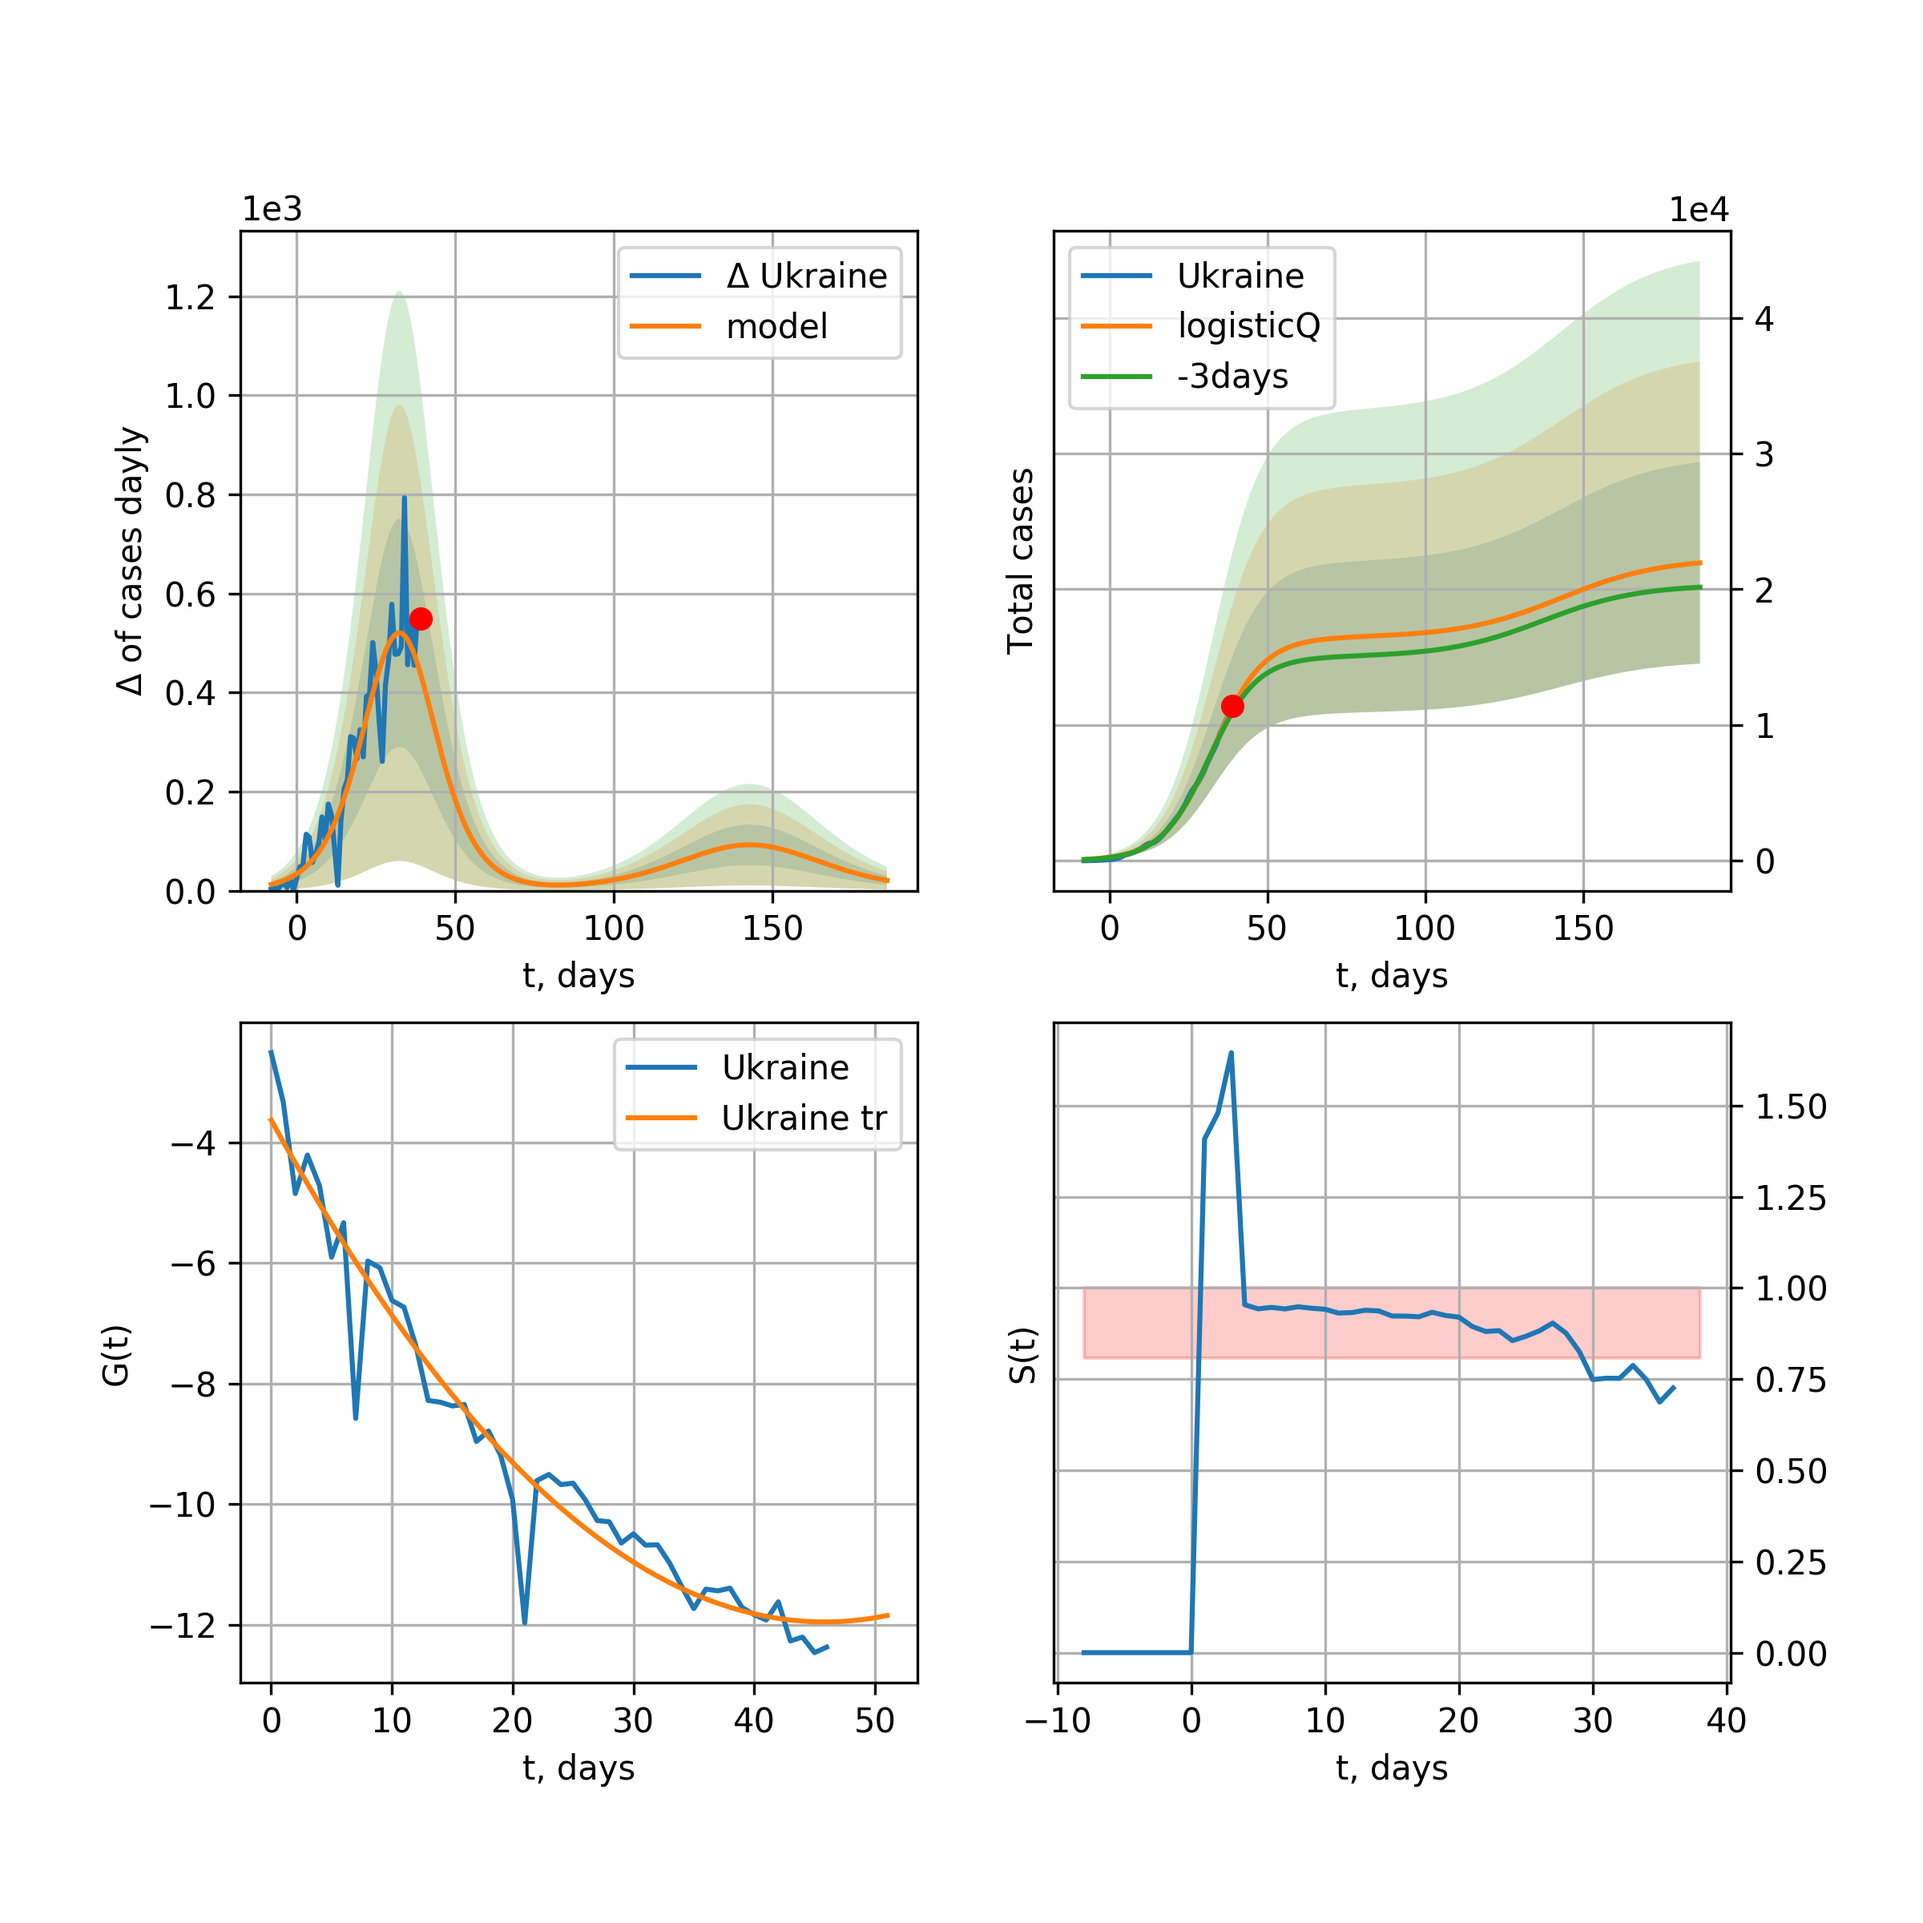
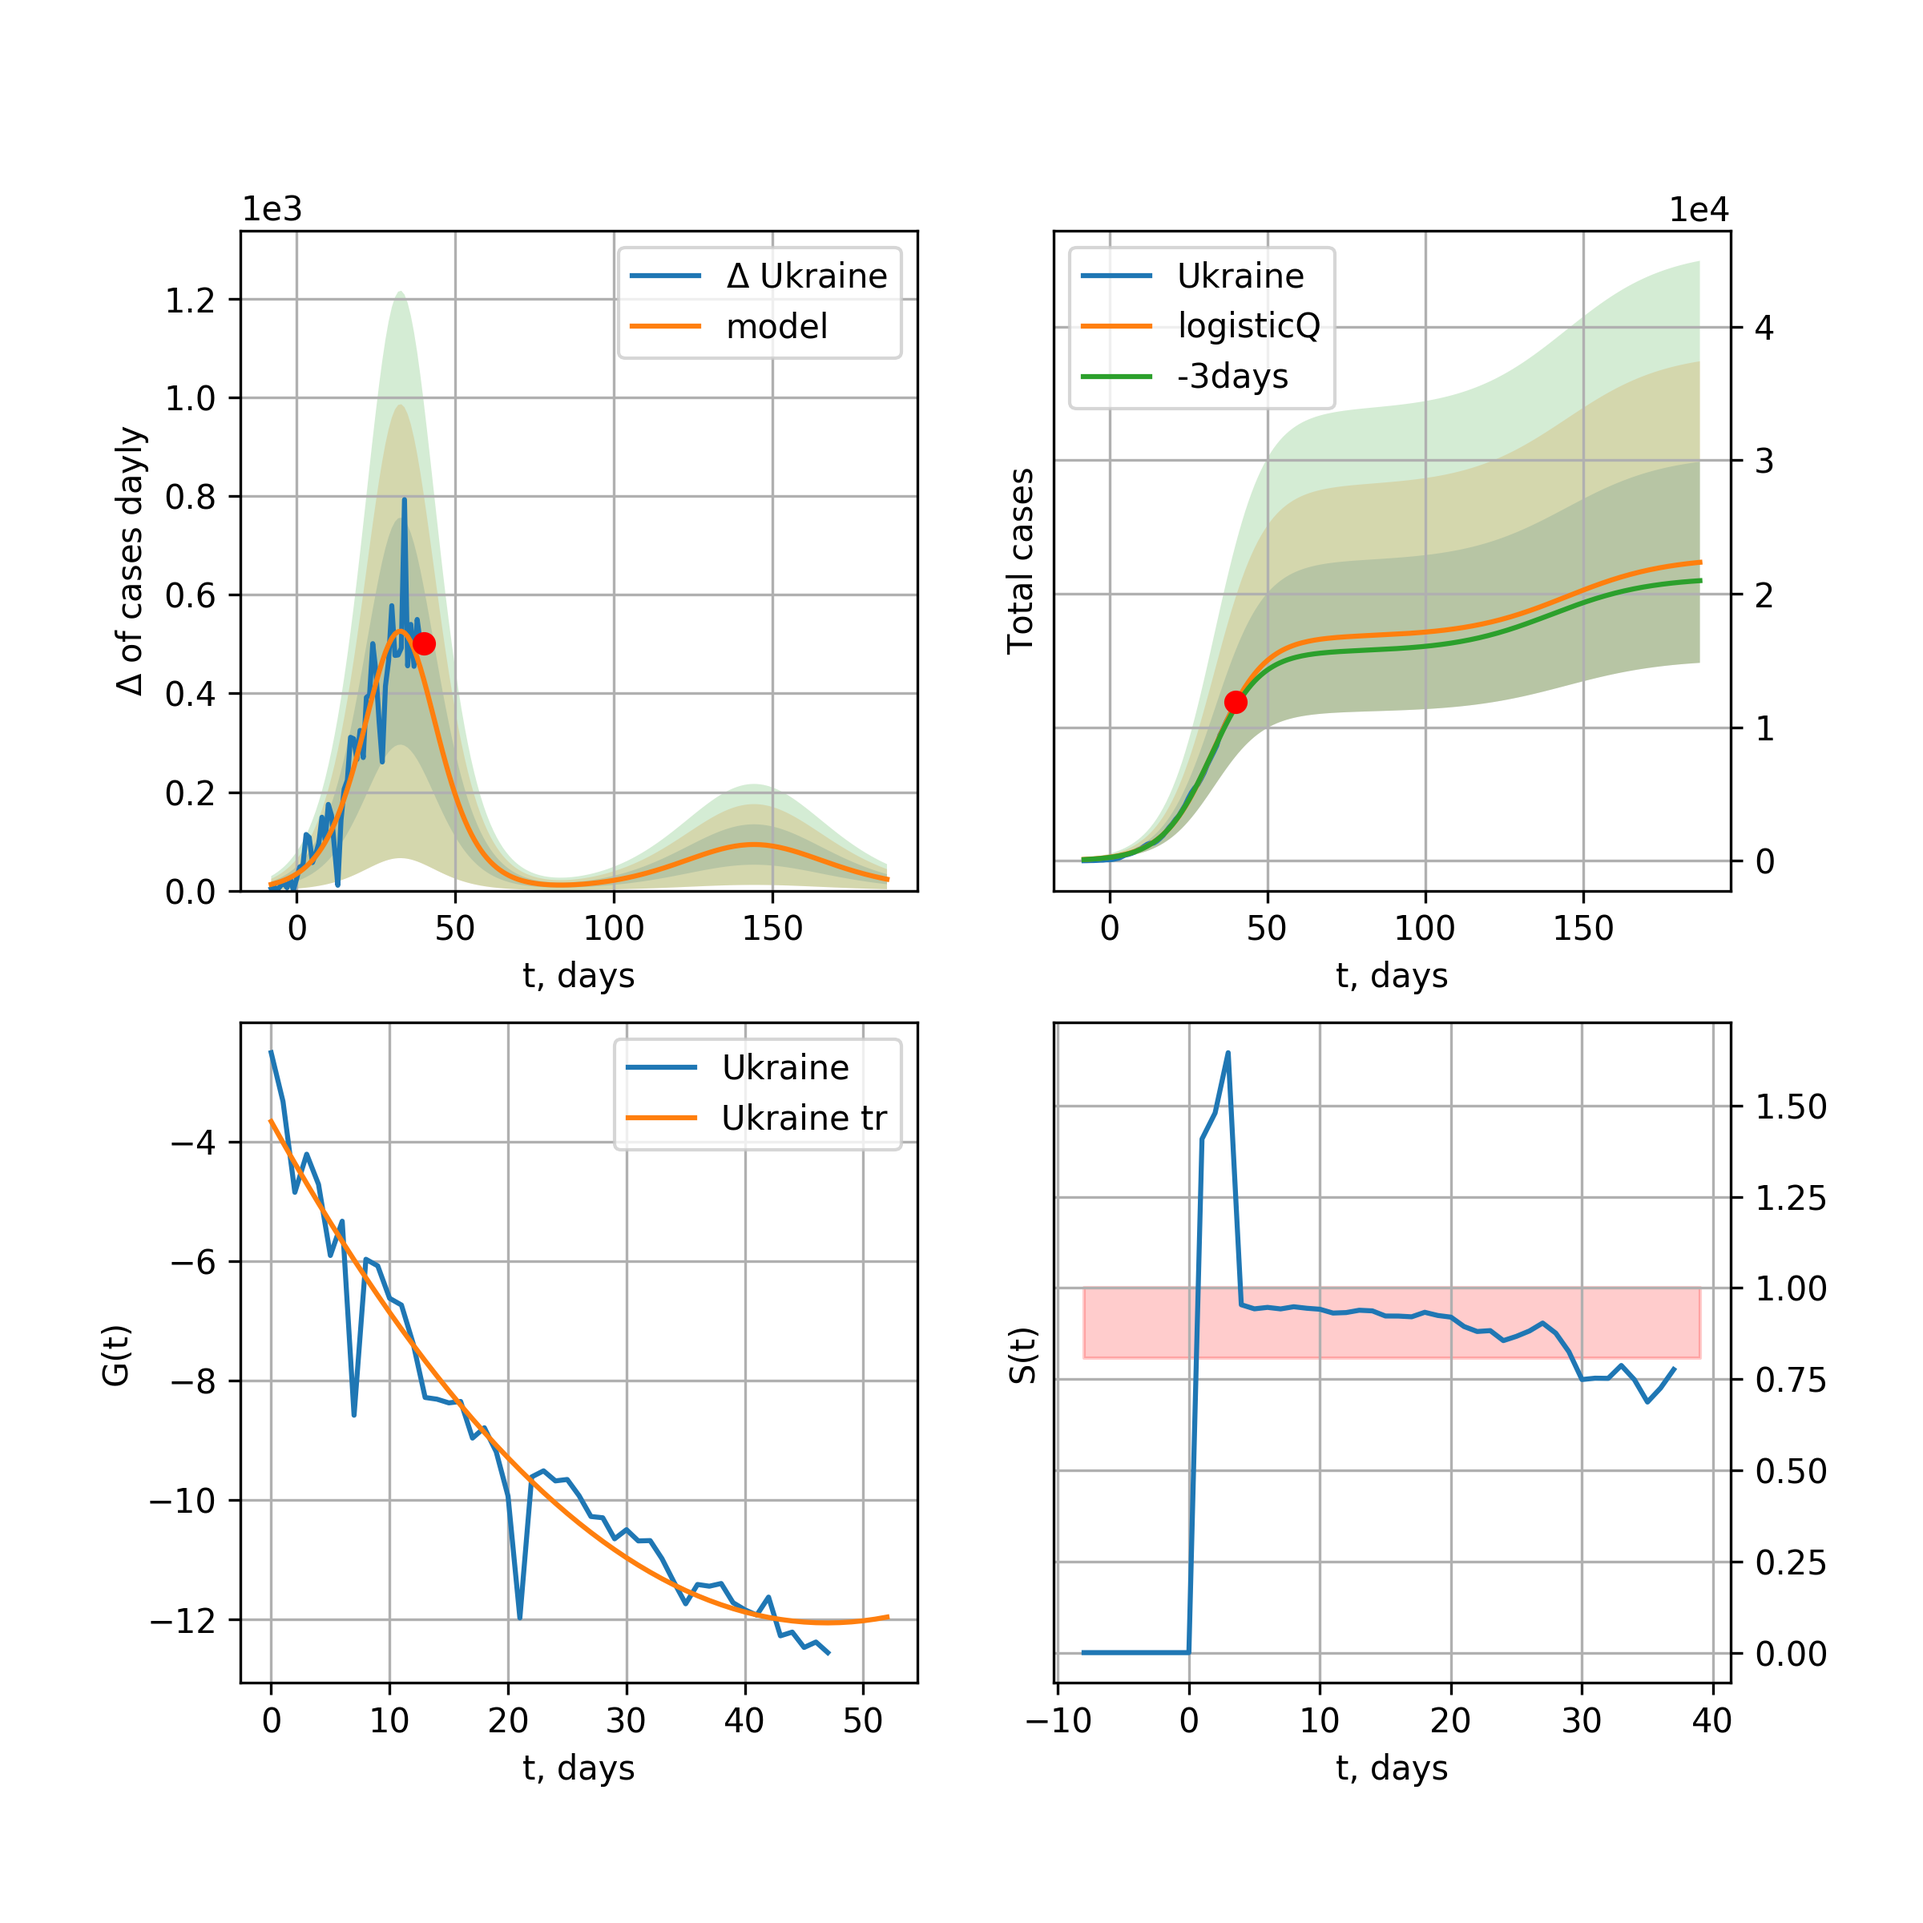
UKraina 2020-05-02

diff --git a/_site/index.html b/_site/index.html
@@ -773,19 +773,19 @@ trend coefficient of determination: 0.984707 <br />
     <br />
     <img src="pictures/covidcasesUkraine35_Q.png" alt="hi" class="inline"/><br /> 
 
-      Ukraine data at: 2020-05-01<br />
-+3 day model MAPE: 0.034489<br />
+      Ukraine data at: 2020-05-02<br />
++3 day model MAPE: 0.026317<br />
 model: logisticQ<br />
-coeffs: [ 1.64548321e+04  6.66857815e-06  3.28541766e+01 -1.89389729e+04]<br />
+coeffs: [ 1.67937629e+04  5.63311104e-06  3.31754410e+01 -2.22196051e+04]<br />
 S.Korea scenario coeffs: [0.35416971, 0.02606324, 4.35859408, 19.30413219]<br />
-rational stdev: 0.338090<br />
-forecast at the end of period: +148 days<br />
-	 deltaDaycases: 20<br />
-	 total cases: 21943 ± 7418<br />
-	 total death: 549 ± 556<br />
-trend coefficient of determination: 0.938363 <br />
- intercept_: -3.6340534471368686 <br />
- coeffs_: [ 0.         -0.36322464  0.003963  ]<br />
+rational stdev: 0.336823<br />
+forecast at the end of period: +147 days<br />
+	 deltaDaycases: 23<br />
+	 total cases: 22356 ± 7530<br />
+	 total death: 546 ± 551<br />
+trend coefficient of determination: 0.939531 <br />
+ intercept_: -3.6656984882874184 <br />
+ coeffs_: [ 0.         -0.35756303  0.00380992]<br />
           <br /> 
     
     South_Korea
